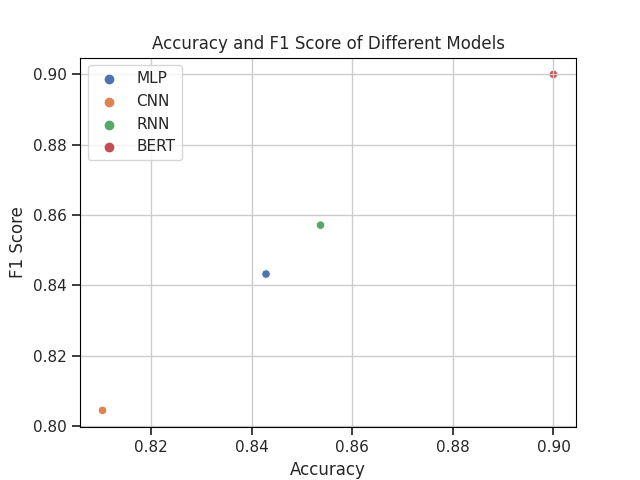
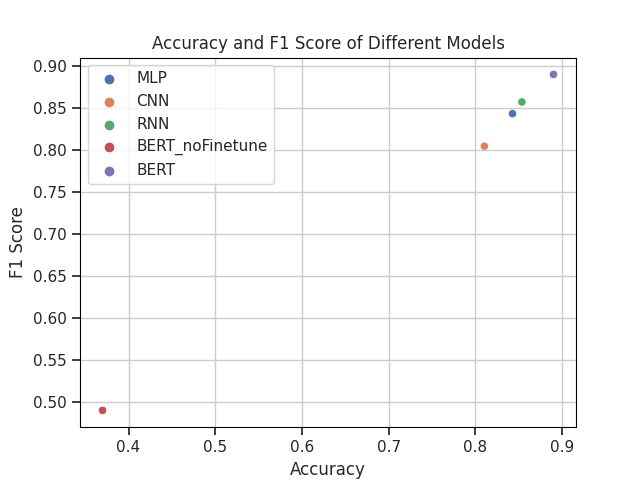
feat: save before changing model

diff --git a/qinggan/src/model.py b/qinggan/src/model.py
@@ -13,17 +13,17 @@ class MLP(nn.Module):
         self.embedding = nn.Embedding(len(word2id) + 1, 50)
         self.embedding.weight.data.copy_(torch.from_numpy(word2vec))
         self.embedding.weight.requires_grad = False
+        self.mlp_layer = nn.Linear(50, 128)
         self.relu = nn.ReLU()
-        self.hidden = nn.Linear(50, 100)
-        self.out = nn.Linear(100, 2)
-        nn.init.normal_(self.hidden.weight, mean=0, std=0.01)
+        self.out = nn.Linear(128, 2)
+        nn.init.normal_(self.mlp_layer.weight, mean=0, std=0.01)
         nn.init.normal_(self.out.weight, mean=0, std=0.01)
 
     def forward(self, sentence):
-        embedding = self.embedding(sentence)
-        out = self.relu(self.hidden(embedding)).permute(0, 2, 1)
-        out = F.max_pool1d(out, out.size(2)).squeeze(2)
-        return self.out(out)
+        embedding = self.embedding(sentence)                            # B * len * 50
+        out = self.relu(self.mlp_layer(embedding)).permute(0, 2, 1)     # B * 128 * len
+        out = F.max_pool1d(out, out.size(2)).squeeze(2)                 # B * 128
+        return self.out(out)                                            # B * 2
 
 
 class CNN(nn.Module):
@@ -46,7 +46,7 @@ class CNN(nn.Module):
         return x
     
     def forward(self, sentence):
-        x = self.embedding(sentence).unsqueeze(1)
+        x = self.embedding(sentence).unsqueeze(1)   # B * len * 50
         x1 = self.conv_and_pool(x, self.conv1)
         x2 = self.conv_and_pool(x, self.conv2)
         x3 = self.conv_and_pool(x, self.conv3)
@@ -63,15 +63,15 @@ class RNN(nn.Module):
         self.embedding.weight.requires_grad = False
         self.encoder = nn.LSTM(
             input_size=50,
-            hidden_size=100,
+            hidden_size=128,
             num_layers=2,
             bidirectional=True,
         )
-        self.decoder = nn.Linear(200, 64)
+        self.decoder = nn.Linear(256, 64)
         self.fc = nn.Linear(64, 2)
     
     def forward(self, sentence):
         embedding = self.embedding(sentence)
         _, (h_n, _) = self.encoder(embedding.permute(1, 0, 2))
-        h_n = h_n.view(2, 2, -1, 100)
+        h_n = h_n.view(2, 2, -1, 128)
         return self.fc(self.decoder(torch.cat((h_n[-1, 0], h_n[-1, 1]), dim=-1)))

diff --git a/qinggan/src/draw.py b/qinggan/src/draw.py
@@ -6,6 +6,9 @@ import json
 
 
 def drawAccF1(iter, change_str, read_path):
+    '''
+    Draw Accuracy & F1 score of different model
+    '''
     CNN_results = []
     RNN_results = []
     MLP_results = []
@@ -53,6 +56,9 @@ def drawAccF1(iter, change_str, read_path):
 
 
 def drawLoss():
+    '''
+    Draw Loss of CNN/RNN/MLP while training or validating
+    '''
     read_path = 'results/result_%s_bs16_lr0.010000_ep10_ml64.pickle'
     with open(read_path % ('CNN'), 'rb') as f:
         CNN_result = pickle.load(f)
@@ -100,6 +106,9 @@ def drawLoss():
 
 
 def drawModelACCF1():
+    '''
+    Draw Accuracy & F1 score of different models
+    '''
     read_path = 'results/result_%s_bs16_lr0.010000_ep10_ml64.pickle'
     with open(read_path % ('CNN'), 'rb') as f:
         CNN_result = pickle.load(f)
@@ -107,9 +116,9 @@ def drawModelACCF1():
         RNN_result = pickle.load(f)
     with open(read_path % ('MLP'), 'rb') as f:
         MLP_result = pickle.load(f)
-    models = ['MLP', 'CNN', 'RNN', 'BERT']
-    acc = [MLP_result['accuracy'], CNN_result['accuracy'], RNN_result['accuracy'], 0.90]
-    f1 = [MLP_result['f1'], CNN_result['f1'], RNN_result['f1'], 0.90]
+    models = ['MLP', 'CNN', 'RNN', 'BERT_noFinetune', 'BERT']
+    acc = [MLP_result['accuracy'], CNN_result['accuracy'], RNN_result['accuracy'], 0.37, 0.89]
+    f1 = [MLP_result['f1'], CNN_result['f1'], RNN_result['f1'], 0.49, 0.89]
     data = {'Model': models, 'Accuracy': acc, 'F1 Score': f1}
     df = pd.DataFrame(data)
     plt.cla()
@@ -123,6 +132,9 @@ def drawModelACCF1():
 
 
 def drawBertLoss():
+    '''
+    Draw Loss of Bert while training
+    '''
     with open('saved/checkpoint-3500/trainer_state.json', 'r') as f:
         bert_result = json.load(f)
     steps = [str(bert_result['log_history'][i]['step']) for i in range(len(bert_result['log_history']))]

diff --git a/qinggan/src/llm_finetune.py b/qinggan/src/llm_finetune.py
@@ -39,7 +39,7 @@ test_dataset = BertDataset(test_encodings, test_labels)
 
 
 training_args = TrainingArguments(
-    output_dir='./saved',          # output directory
+    output_dir='./saved',            # output directory
     num_train_epochs=3,              # total # of training epochs
     per_device_train_batch_size=16,  # batch size per device during training
     per_device_eval_batch_size=16,   # batch size for evaluation
@@ -61,7 +61,7 @@ trainer = Trainer(
     model=model,
     args=training_args,                  # training arguments, defined above
     train_dataset=train_dataset,         # training dataset
-    eval_dataset=val_dataset,          # evaluation dataset
+    eval_dataset=val_dataset,            # evaluation dataset
 )
 
 # trainer.train()

diff --git a/qinggan/readme.md b/qinggan/readme.md
@@ -1,0 +1,21 @@
+# 人工智能导论
+
+<h4 style="text-align: center"> 刘铠铭 </h4>
+
+## 模型的结构图与流程分析
+
+### MLP
+
+本实验采用 MLP 作为 Baseline
+
+### CNN
+
+### RNN(LSTM)
+
+### BERT
+
+## 实验结果分析
+
+## 问题思考
+
+## 心得体会
